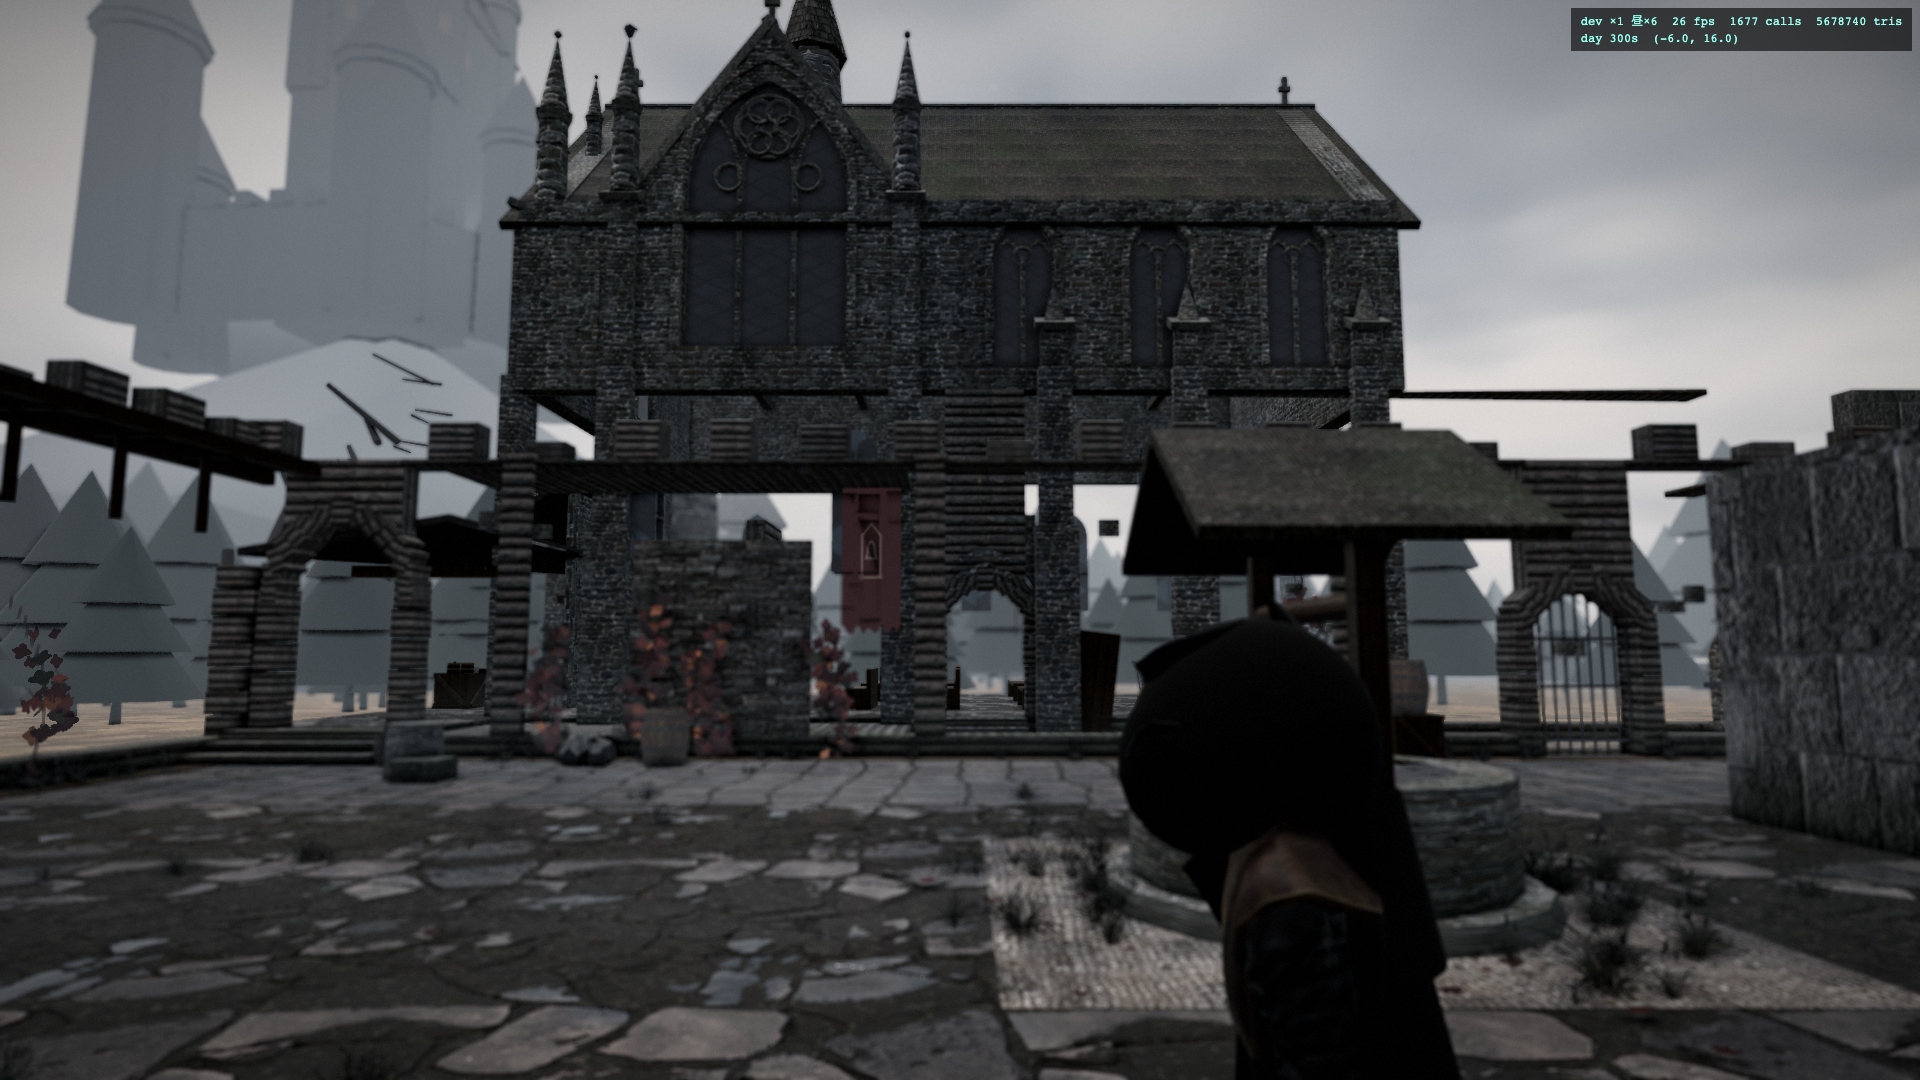
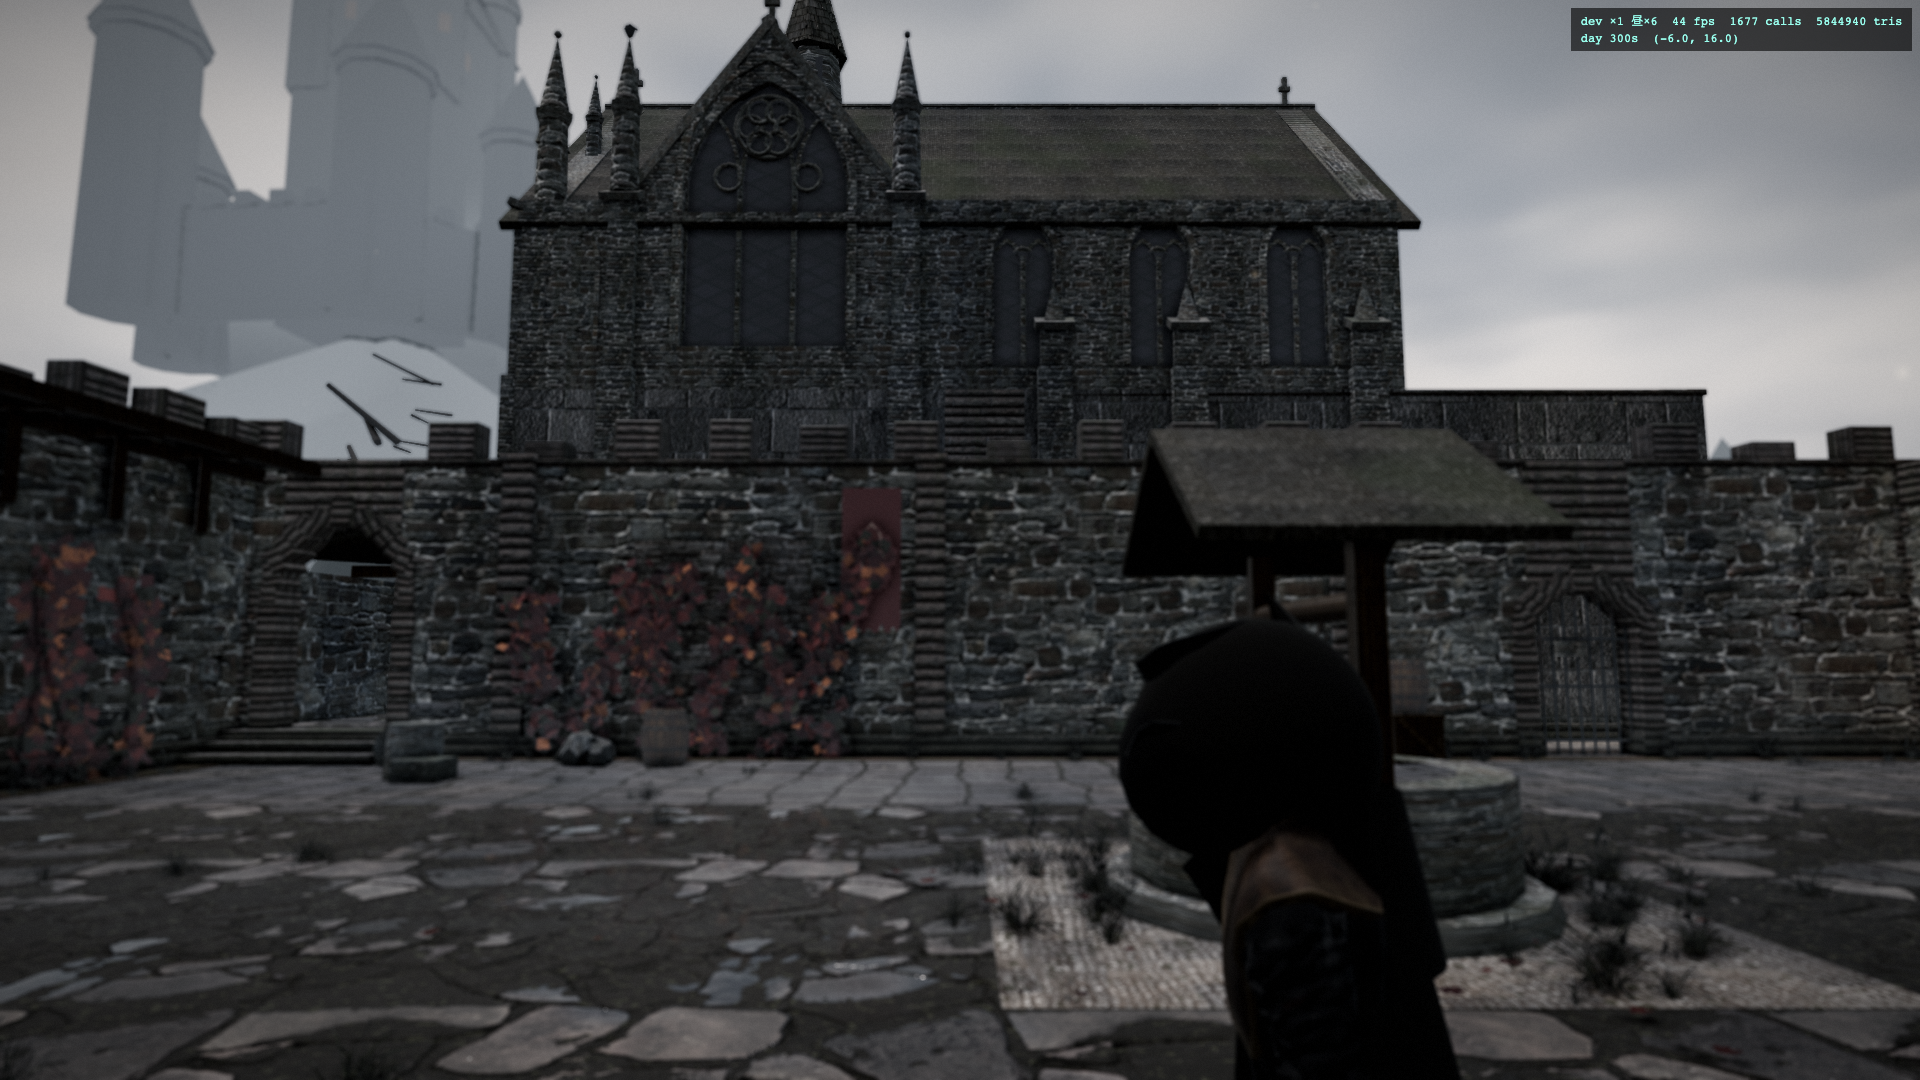
env: fix wall z double-negation, POM grazing clamp, cloth families, denser ivy
- CRITICAL: boxOff passed -z to Batch.geo (which negates internally) -> all wall bodies
  mirrored away; pass sim z now. Audited every new b.geo/decal.geo z sign (only boxOff was wrong).
- POM grazing clamp (bible 7): attenuate step/offset by abs(dot(view,normal)), degrade to normal
  map at <15deg grazing; north wall (new ref left) no longer renders black.
- materialVariants: add clothLinen/clothBanner (shared m.cloth/m.banner instances, preserve batching);
  gatehouse rug uses clothLinen.
- ivy denser/taller climbing masses (more roots, 5-10 leaves/cluster, rising density, ragged tops),
  main cluster north wall.
- re-verified with walls restored: ref open ground 0.277 (target 0.28-0.38), joints rough>=0.55
  (night white grid gone), ref-night 1797 calls/5.2M tris, east-night 1789/5.85M. vitest 108 pass.
- replaced all 6 verification screenshots (previous set was the no-wall regression).

Changed region(s): [[0.0, 0.3361, 1.0, 0.7944], [0.3438, 0.3361, 0.4688, 0.3972], [0.5312, 0.3667, 0.5625, 0.3972]]

diff --git a/src/render/staticLevel.ts b/src/render/staticLevel.ts
@@ -137,7 +137,7 @@ export function buildStaticLevel(m: Materials): StaticLevel {
     const g = tiledBox(x1 - x0, y1 - y0, z1 - z0, tile);
     const uv = g.attributes.uv as THREE.BufferAttribute;
     for (let i = 0; i < uv.count; i++) uv.setXY(i, uv.getX(i) + ou, uv.getY(i) + ov);
-    b.geo(mat, g, (x0 + x1) / 2, (y0 + y1) / 2, -(z0 + z1) / 2);
+    b.geo(mat, g, (x0 + x1) / 2, (y0 + y1) / 2, (z0 + z1) / 2); // Batch.geo 内部已对 z 取负，此处传模拟坐标
   };
 
   // 墙体：按区域选材质族（5.1）。勒脚/压顶用 wallTrim，幕墙 wallRubble，礼拜堂/门房外墙 wallAshlar，地窖 wallRough。
@@ -261,7 +261,7 @@ export function buildStaticLevel(m: Materials): StaticLevel {
   b.box(v.floorDirt, -10, 27.8, 10, 28.5, -0.3, 0.006, 2);
   // 门房室内石板（concept/02）+ 中央地毯
   b.box(v.floorInterior, -3.5, -8.5, 3.5, 0, -0.3, 0.005, 2);
-  b.box(m.cloth, -1.3, -6.2, 1.3, -2.6, 0.006, 0.02, 1.4);
+  b.box(v.clothLinen, -1.3, -6.2, 1.3, -2.6, 0.006, 0.02, 1.4);
   b.box(v.floorFlag, 13, 7.5, 25, 25.5, -0.3, R, 3.6);
   b.box(v.floorFlag, 10, 25.5, 25, 29, -0.3, R, 3.6);
   // 矮台阶（三级，每级 0.15 m）：外廊尖拱前、礼拜堂侧门前（wallTrim）
@@ -396,13 +396,13 @@ export function buildStaticLevel(m: Materials): StaticLevel {
   const ivyPalette = [0x7a2a1c, 0x5e1a1a, 0x6b2418, 0x4a1616, 0xa8642a, 0x3a3a20].map((h) => new THREE.Color(h));
   interface Patch { bx: number; bz: number; nx: number; nz: number; tx: number; tz: number; u0: number; u1: number; top: number; dens: number }
   const patches: Patch[] = [
-    { bx: 0, bz: 28.44, nx: 0, nz: -1, tx: 1, tz: 0, u0: -8.5, u1: -1.5, top: 3.9, dens: 0.92 }, // 北墙主簇（壁灯旁）
-    { bx: 0, bz: 28.44, nx: 0, nz: -1, tx: 1, tz: 0, u0: 2, u1: 6.5, top: 2.6, dens: 0.8 },     // 北墙次簇
-    { bx: -9.94, bz: 0, nx: 1, nz: 0, tx: 0, tz: 1, u0: 4, u1: 10, top: 3.5, dens: 0.85 },      // 西墙
-    { bx: -9.94, bz: 0, nx: 1, nz: 0, tx: 0, tz: 1, u0: 18, u1: 24, top: 3.0, dens: 0.8 },      // 西墙北段
-    { bx: 0, bz: 0.56, nx: 0, nz: 1, tx: 1, tz: 0, u0: -8, u1: -4, top: 2.8, dens: 0.8 },       // 南墙门洞边
-    { bx: 9.94, bz: 0, nx: -1, nz: 0, tx: 0, tz: 1, u0: 18, u1: 24, top: 3.2, dens: 0.78 },     // 东墙背阴
-    { bx: 12.94, bz: 0, nx: -1, nz: 0, tx: 0, tz: 1, u0: 9, u1: 13, top: 4.0, dens: 0.6 },      // 礼拜堂西墙脚
+    { bx: 0, bz: 28.44, nx: 0, nz: -1, tx: 1, tz: 0, u0: -9.5, u1: -0.5, top: 4.3, dens: 0.98 }, // 北墙主簇（壁灯旁，成片攀爬）
+    { bx: 0, bz: 28.44, nx: 0, nz: -1, tx: 1, tz: 0, u0: 1.5, u1: 8, top: 3.2, dens: 0.9 },     // 北墙次簇
+    { bx: -9.94, bz: 0, nx: 1, nz: 0, tx: 0, tz: 1, u0: 4, u1: 10, top: 3.8, dens: 0.9 },      // 西墙
+    { bx: -9.94, bz: 0, nx: 1, nz: 0, tx: 0, tz: 1, u0: 18, u1: 24, top: 3.4, dens: 0.85 },      // 西墙北段
+    { bx: 0, bz: 0.56, nx: 0, nz: 1, tx: 1, tz: 0, u0: -8, u1: -4, top: 3.0, dens: 0.85 },       // 南墙门洞边
+    { bx: 9.94, bz: 0, nx: -1, nz: 0, tx: 0, tz: 1, u0: 18, u1: 24, top: 3.5, dens: 0.82 },     // 东墙背阴
+    { bx: 12.94, bz: 0, nx: -1, nz: 0, tx: 0, tz: 1, u0: 9, u1: 13, top: 4.2, dens: 0.65 },      // 礼拜堂西墙脚
   ];
   const ivyPos: THREE.Vector3[] = [];
   const ivyQuat: THREE.Quaternion[] = [];
@@ -422,32 +422,32 @@ export function buildStaticLevel(m: Materials): StaticLevel {
   };
   for (const pa of patches) {
     const yaw = Math.atan2(pa.nx, pa.nz);
-    const roots = Math.max(2, Math.round((pa.u1 - pa.u0) / 1.7));
+    const roots = Math.max(3, Math.round((pa.u1 - pa.u0) / 1.0)); // 更多主茎，成片攀爬
     for (let s = 0; s < roots; s++) {
       const uRoot = pa.u0 + ((s + 0.5) * (pa.u1 - pa.u0)) / roots + (ivyR() - 0.5) * 0.5;
       const phase = ivyR() * 6.28, amp = 0.18 + ivyR() * 0.3;
-      const top = pa.top * (0.7 + ivyR() * 0.3);
+      const top = pa.top * (0.82 + ivyR() * 0.22);
       // 主茎从墙脚攀爬
-      for (let y = 0.06; y < top; y += 0.12) {
+      for (let y = 0.06; y < top; y += 0.11) {
         const t = y / top;
         const u = uRoot + Math.sin(y * 1.3 + phase) * amp * (0.4 + t) + (ivyR() - 0.5) * 0.08;
         const px = pa.bx + pa.tx * u, pz = pa.bz + pa.tz * u;
-        decal.geo(bark, new THREE.BoxGeometry(0.02, 0.16, 0.02), px + pa.nx * 0.025, y, pz + pa.nz * 0.025, yaw, (ivyR() - 0.5) * 0.25, (ivyR() - 0.5) * 0.25);
-        // 上密下疏 + 顶端破碎：中部最密，基部与顶梢稀疏
-        const densEff = pa.dens * (0.45 + 0.55 * Math.sin(Math.min(1, t * 1.15) * Math.PI)) * (t > 0.85 ? 0.4 : 1);
-        if (ivyR() > densEff) continue; // 裸茎节点（ gaps）
-        const n = 3 + Math.floor(ivyR() * 5);
-        const rad = 0.16 + ivyR() * 0.2;
+        decal.geo(bark, new THREE.BoxGeometry(0.02, 0.15, 0.02), px + pa.nx * 0.025, y, pz + pa.nz * 0.025, yaw, (ivyR() - 0.5) * 0.25, (ivyR() - 0.5) * 0.25);
+        // 上密下疏 + 顶端破碎：密度随高度上升，顶梢 ragged
+        const densEff = pa.dens * (0.55 + 0.45 * t) * (t > 0.9 ? 0.55 : 1);
+        if (ivyR() > densEff) continue; // 裸茎节点（gaps）
+        const n = 5 + Math.floor(ivyR() * 6);
+        const rad = 0.18 + ivyR() * 0.22;
         for (let l = 0; l < n; l++) {
           const du = (ivyR() - 0.5) * rad * 2, dv = (ivyR() - 0.5) * rad * 1.6;
-          pushLeaf(px + pa.tx * du, y + dv, pz + pa.tz * du, yaw, pa.nx, pa.nz, 0.2 + ivyR() * 0.13);
+          pushLeaf(px + pa.tx * du, y + dv, pz + pa.tz * du, yaw, pa.nx, pa.nz, 0.22 + ivyR() * 0.14);
         }
         // 偶有分枝向外探出再缀叶
-        if (ivyR() < 0.18) {
+        if (ivyR() < 0.28) {
           const bu = u + (ivyR() - 0.5) * 0.6, by = y + 0.1 + ivyR() * 0.2;
           const bpx = pa.bx + pa.tx * bu, bpz = pa.bz + pa.tz * bu;
           decal.geo(bark, new THREE.BoxGeometry(0.015, 0.3, 0.015), bpx + pa.nx * 0.1, by, bpz + pa.nz * 0.1, yaw, 0.6, 0);
-          for (let l = 0; l < 4; l++) pushLeaf(bpx + pa.tx * (ivyR() - 0.5) * 0.3, by + (ivyR() - 0.5) * 0.25, bpz + pa.tz * (ivyR() - 0.5) * 0.3, yaw, pa.nx, pa.nz, 0.2 + ivyR() * 0.12);
+          for (let l = 0; l < 6; l++) pushLeaf(bpx + pa.tx * (ivyR() - 0.5) * 0.34, by + (ivyR() - 0.5) * 0.3, bpz + pa.tz * (ivyR() - 0.5) * 0.34, yaw, pa.nx, pa.nz, 0.22 + ivyR() * 0.13);
         }
       }
     }

diff --git a/src/render/materialVariants.ts b/src/render/materialVariants.ts
@@ -35,6 +35,10 @@ export interface Variants {
   roofShingle: THREE.MeshStandardMaterial;
   /** 山崖、地窖开凿岩壁 */
   rock: THREE.MeshStandardMaterial;
+  /** 麻布、搭布、床品、地毯（布/旗行：roughness 0.92–1.0 + sheen、织纹、底部潮湿） */
+  clothLinen: THREE.MeshStandardMaterial;
+  /** 旗、挂毯（布/旗行：褪色酒红 + 徽记、破边、sheen） */
+  clothBanner: THREE.MeshStandardMaterial;
 }
 
 const cache = new WeakMap<Materials, Variants>();
@@ -102,6 +106,8 @@ export function variants(m: Materials): Variants {
     wallRubble, wallAshlar, wallTrim, wallRough, wallPlaster,
     floorFlag, floorFlagWorn, floorCobble, floorDirt, floorInterior,
     woodBeam, woodPlank, woodFloorOld, roofShingle, rock,
+    // 织物族：复用 Materials 里的共享实例（props 不再各自 clone，保合批），参数已符合圣经布/旗行
+    clothLinen: m.cloth, clothBanner: m.banner,
   };
   cache.set(m, v);
   trackPending(Promise.all(pending).then(() => undefined));

diff --git a/src/render/materials.ts b/src/render/materials.ts
@@ -637,9 +637,14 @@ float awHeight(vec2 uv) {
 }
 vec2 awPom(vec2 uv, vec3 vTs) {
   if (uAwSteps < 1.0) return uv;
+  // 掠射钳制（圣经 7）：视线与面夹角极小时衰减步长与偏移，退化为普通法线贴图，杜绝整面发黑/撕裂
+  float graze = smoothstep(0.10, 0.35, abs(vTs.z));
+  if (graze < 0.02) return uv;
   int steps = int(uAwSteps);
   float layerH = 1.0 / float(steps);
-  vec2 delta = (vTs.xy / max(0.35, vTs.z)) * uAwHeightScale / float(steps);
+  vec2 delta = (vTs.xy / max(0.35, vTs.z)) * uAwHeightScale * graze / float(steps);
+  float maxOff = uAwHeightScale * 2.0;
+  delta = clamp(delta, vec2(-maxOff), vec2(maxOff));
   vec2 cur = uv; float curH = 1.0;
   float h = awHeight(cur);
   for (int i = 0; i < 24; i++) {
